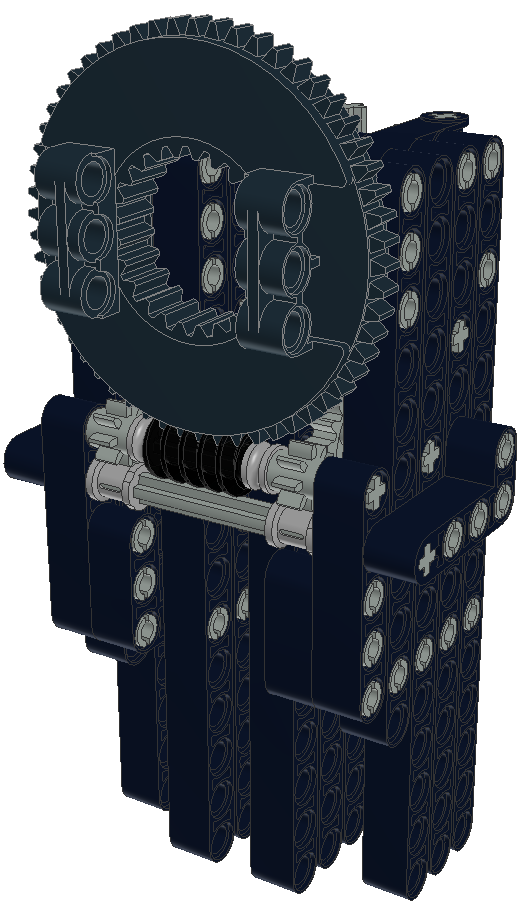
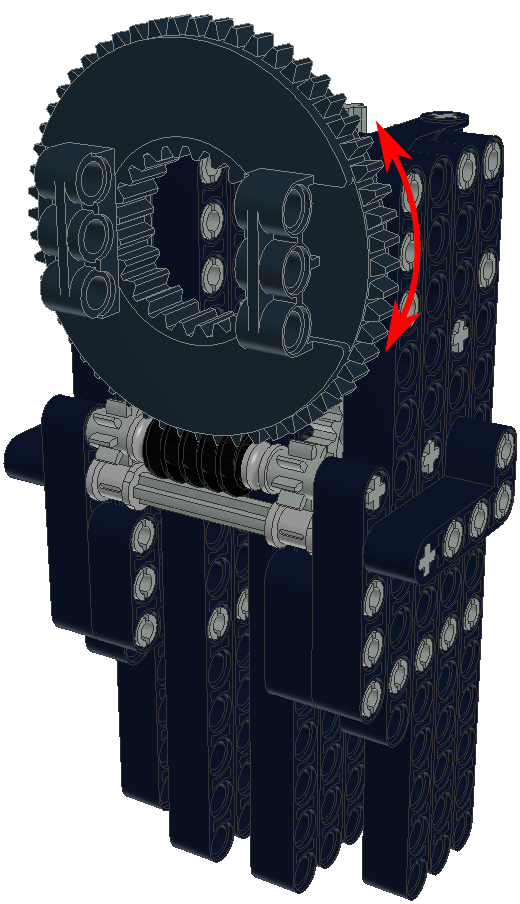
docs: image scaling, prototype section and LeoCAD build instructions

Changed region(s): [[0.7077, 0.1239, 0.8308, 0.4027]]

diff --git a/README.md b/README.md
@@ -1,31 +1,42 @@
-
----
-
 # LEGO Kamera Dolly Projekt
 
-Der Kameradolly besteht aus einer Hoizontalen und Vertikalen Drehachse, sowie einem Chassis zum fahren.
+Der Kameradolly besteht aus einer horizontalen und vertikalen Drehachse sowie einem Chassis zum Fahren.
 
-> Hier Foto einfügen
+_Foto des fertigen Modells folgt in Kürze._
 
-Das 'Gimble' (bestehend aus der horizontalen und vertikalen Rotationsachse) wird modular auf das Chassis gesetzt und kann um jeweils 90° rotiert angebaut werden.
+Das Gimbal (bestehend aus der horizontalen und vertikalen Rotationsachse) wird modular auf das Chassis gesetzt und kann um jeweils 90° rotiert angebaut werden.
 
-> Hier Foto einfügen
+_Foto des fertigen Modells folgt in Kürze._
 
 ## Vertikale und horizontale Rotationsachsen
 
-Die Untersetzung für sowohl die **vertikale** als auch die **horizontale Rotationsachse** beträgt 1:960. Dabei sind an der horizontalen Achse zwei Motoren verbaut, während die vertikale Achse von nur einem Motor angetrieben wird.
+Die Untersetzung für sowohl die **vertikale** als auch die **horizontale Rotationsachse** beträgt 1:960.
 
-> Hier Fotos einfügen
+### Horizontale Rotationsachse — 1:960
+
+Die horizontale Rotationsachse besteht aus zwei gespiegelten Drehpunkten, die sich gegenüberliegen. Dadurch wird die horizontale Drehachse durch zwei Motoren angetrieben.
+
+<p align="center"><img src="./images/horizontal-axis-of-rotation_front.png" alt="Horizontale Rotationsachse" width="50%"></p>
+
+### Vertikale Rotationsachse — 1:960
+
+Die vertikale Rotationsachse besteht aus nur einem Drehpunkt und somit einem Motor.
+
+<p align="center"><img src="./images/vertical-axis-of-rotation_front.png" alt="Vertikale Rotationsachse" width="70%"></p>
 
 ## Chassis mit Panzersteuerung (Skid-Steering)
 
-Das Chassis besteht aus vier Gearboxen mit einer Untersetzung von 1:256. Jede Gearbox verfügt über einen eigenen Motor. Dadurch kann das Fahrzeug ähnlich wie ein Panzer manövrieren, agiert jedoch effizienter: Kurven werden intelligent durch Geschwindigkeitsunterschiede zwischen dem Innen- und dem Außenrad gefahren. Dieses Verhalten simuliert Funktionen einer Differenzial-Lenkung oder der Ackermann-Lenkung.
+Das Chassis besteht aus vier Gearboxen mit einer Untersetzung von 1:256. Jede Gearbox verfügt über einen eigenen Motor. Dadurch kann das Fahrzeug ähnlich wie ein Panzer manövrieren, agiert jedoch effizienter: Kurven werden durch gezielte Geschwindigkeitsunterschiede zwischen dem Innen- und dem Außenrad gefahren. Dieses Verhalten simuliert prinzipiell die Funktionsweise einer Differenzial- oder Ackermann-Lenkung, bei der sich das äußere Rad in einer Kurvenfahrt schneller dreht als das innere. Die genaue Berechnung der Kurvenfahrten muss noch entwickelt, erprobt und getestet werden. Dieser Schritt erfolgt im Rahmen der Implementierung der Logik und Steuerung auf dem ESP32.
 
-> Hier Fotos einfügen
+### Gearbox
 
-Alle sieben Antriebe, sowohl für das Chassis als auch für die Drehachsen der Kamera, verwenden einheitlich den Lego 8883 Motor. Bei der Motorenwahl überwog der Kosten-Nutzen-Faktor: Ein Motor mit Encoder kostet aktuell rund 21 €, während der Lego 8883 als Import bereits für 2,60 € erhältlich ist. Da alle sieben benötigten Motoren bereits vorhanden waren, wurden die ersten Prototypen damit realisiert. Dabei stellte sich heraus, dass die erreichte Präzision – selbst für Lego-Verhältnisse – absolut ausreichend ist.
+<p align="center"><img src="./images/gearbox_2.png" alt="Gearbox"></p>
+
+Alle sieben Antriebe, sowohl für das Chassis als auch für die Drehachsen der Kamera, verwenden einheitlich den Lego 8883 Motor. Bei der Motorenwahl überwog der Kosten-Nutzen-Faktor: Ein Motor mit Encoder kostet aktuell rund 21 €, während der Lego 8883 als Import bereits für 2,60 € erhältlich ist. Da alle sieben benötigten Motoren bereits vorhanden waren, wurden die ersten Prototypen damit realisiert. Dabei stellte sich heraus, dass die erreichte Präzision durch die massive Untersetzung für Lego-Verhältnisse absolut zufriedenstellend ist.
 
 ## Spezifikationen des Lego Motors 8883
+
+<p align="center"><img src="./images/8883.png" alt="Quelle: https://imgbin.com"></p>
 
 * **Betriebsspannung:** 9V
 * **Leerlaufdrehzahl:** ca. 405 U/min
@@ -33,13 +44,15 @@ Alle sieben Antriebe, sowohl für das Chassis als auch für die Drehachsen der K
 * **Stromaufnahme (Leerlauf):** ca. 40 mA
 * **Stromaufnahme (Blockiert):** ca. 850 mA
 
+Aus den Motorspezifikationen lassen sich die resultierenden Geschwindigkeiten der einzelnen Komponenten ableiten:
+
 | Komponente | Geschwindigkeit |
 | :--- | :--- |
 | **Chassis** | ca. 20,8 cm/min |
 | **Kamera Horizontal** | ca. 151,9° / min |
 | **Kamera Vertikal** | ca. 151,9° / min |
 
-> Detaillierte Informationen sind in [gearing.md](gearing.md) dokumentiert.
+> Detaillierte Berechnungen zu Übersetzungen, Geschwindigkeiten und den resultierenden Drehmomenten an den jeweiligen Achsen sind in [gearing.md](gearing.md) dokumentiert.
 
 
 ## Elektronik und Steuerung
@@ -55,6 +68,24 @@ Das System wird von einem **ESP32-Mikrocontroller** gesteuert, der über den I2C
 | Lego 8883 Motor | 7 | Antrieb: 4× Chassis, 2× Kamera horizontal, 1× Kamera vertikal |
 | Netzteil 9V | 1 | Motorstromversorgung für alle TB6612FNG |
 
->Einen detaillierter Anschlussplan, Pinbelegungen und Inbetriebnahme-Schritte sind in [anschlussanleitung.md](anschlussanleitung.md) dokumentiert.
+> Ein detaillierter Anschlussplan, Pinbelegungen und Inbetriebnahme-Schritte sind in [anschlussanleitung.md](anschlussanleitung.md) dokumentiert.
 
----
+## Überblick der Lego Hauptkomponenten
+
+<p align="center"><img src="./images/all-parts.png" alt="Überblick der Lego Hauptkomponenten"></p>
+
+## Erster Prototyp
+
+### Prototyp Chassis
+
+<p align="center"><img src="./images/prototype-chassis.png" alt="Prototyp Chassis"></p>
+
+Die Spurweite ist bewusst größer gewählt als der Radstand, um die Skid-Steering-Charakteristik zu begünstigen. Die Tests haben gezeigt, dass sich das Fahrzeug dadurch perfekt flüssig auf der Stelle im Kreis drehen lässt – womit es in der Lage ist, allerlei Kurvenradien präzise zu fahren.
+
+### Prototyp Gimbal
+
+<p align="center"><img src="./images/prototype-gimble.png" alt="Prototyp Gimbal"></p>
+
+Die ersten Tests haben gezeigt, dass sich sowohl das Chassis als auch das Gimbal für Lego-Verhältnisse bemerkenswert flüssig bewegen – die Untersetzungen und die gewählten Komponenten erfüllen ihren Zweck zuverlässig.
+
+> **Hinweis:** Dies ist nur der Prototyp. Das finale Modell befindet sich noch in der Konstruktion.

diff --git a/LeoCAD Bauanleitung/README.md b/LeoCAD Bauanleitung/README.md
@@ -1,0 +1,16 @@
+# Bauanleitung – LeoCAD
+
+Die Bauanleitung liegt im Format `.ldr` vor und kann mit **LeoCAD** geöffnet werden.
+
+## Voraussetzung
+
+Um die Bauanleitung zu öffnen, muss LeoCAD installiert sein:
+
+- **Download:** [https://www.leocad.org](https://www.leocad.org)
+- Verfügbar für Windows, macOS und Linux
+
+## Datei
+
+- `dolly.ldr` – Bauanleitung der Grundkomponenten: Horizontale Drehachse, Vertikale Drehachse und Gearboxen
+
+> Das vollständige Lego-Modell befindet sich noch in der Konstruktion – allerdings sind damit bereits 90 % der Arbeit getan.
